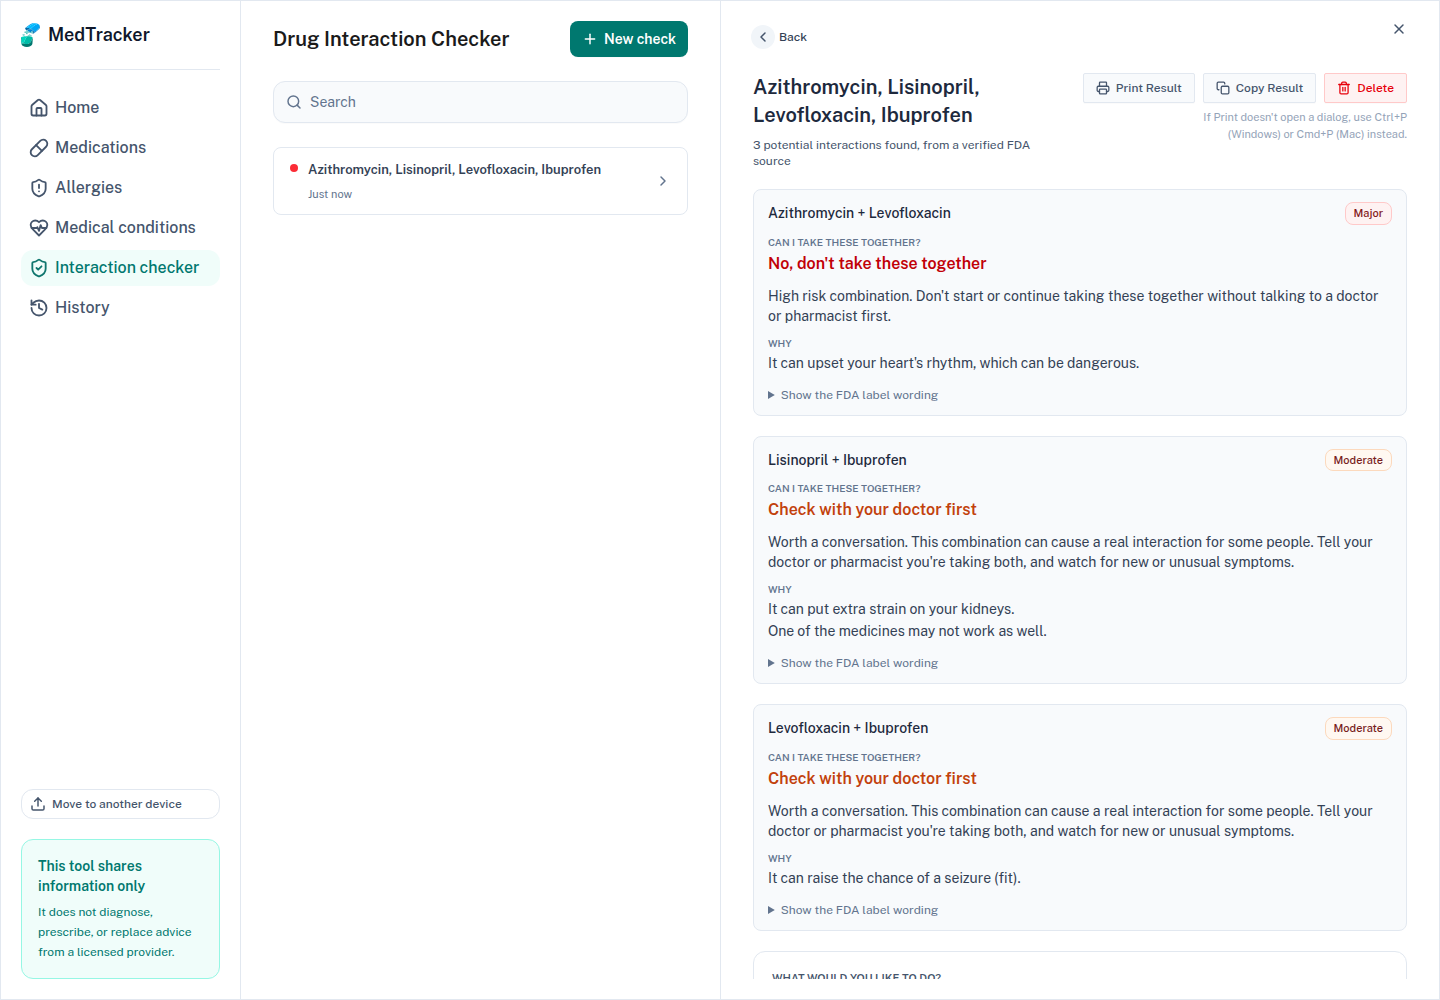
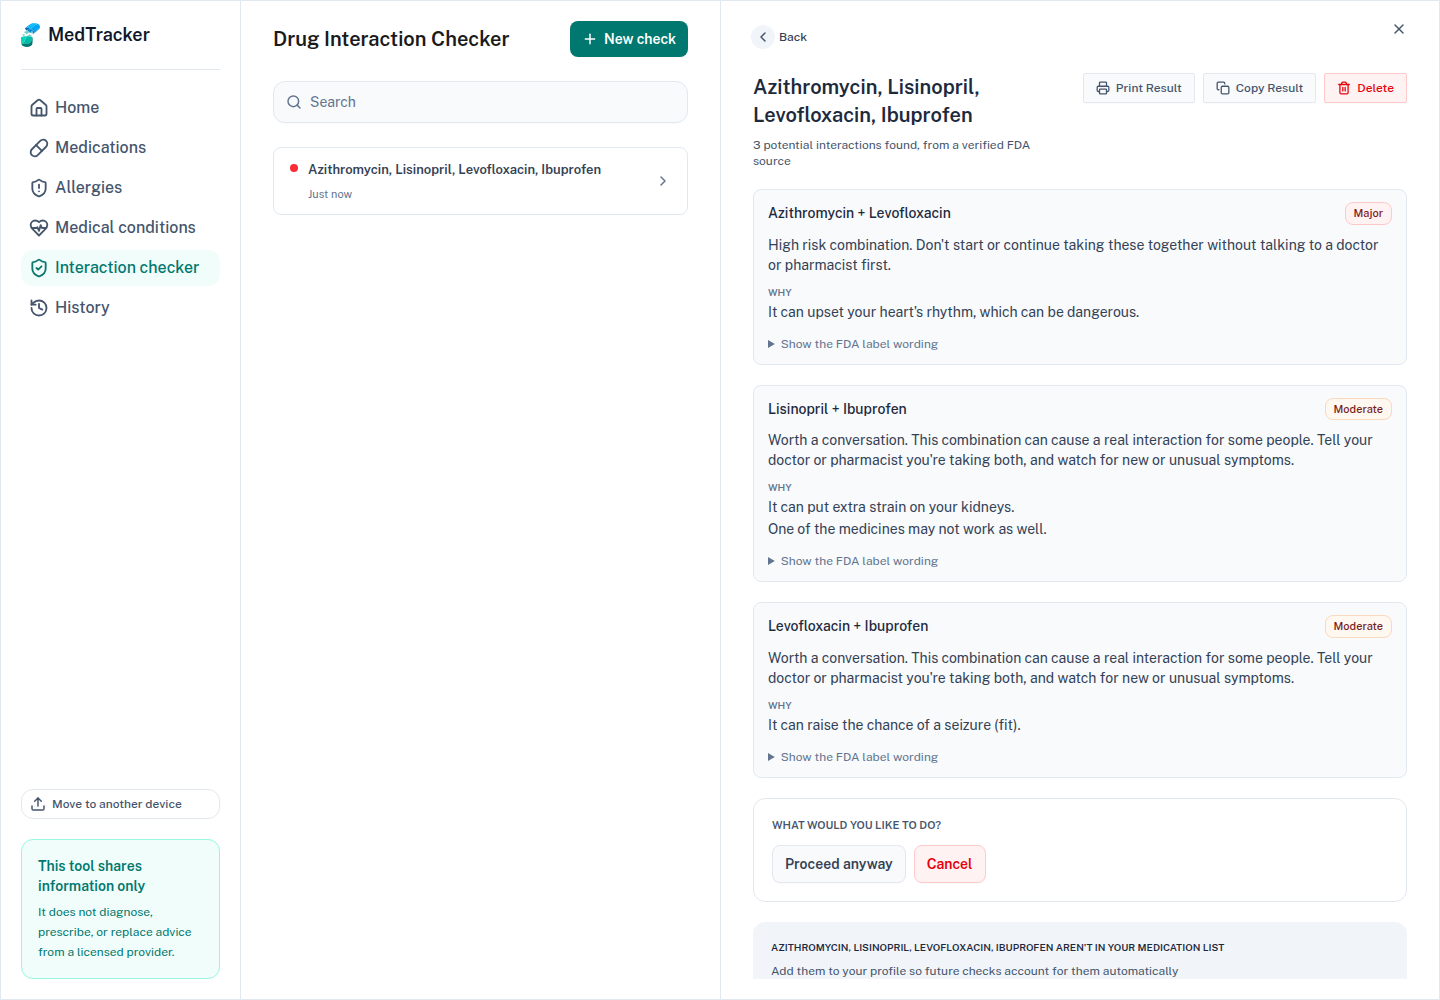
Trim interaction result: drop verdict block, print hint and emergency call
Claude-Session: https://claude.ai/code/session_014apxLj5NemqaRrMDhjeqss

Changed region(s): [[0.5312, 0.217, 0.9688, 0.992], [0.8438, 0.093, 0.9688, 0.155], [0.9062, 0.713, 0.9688, 0.744]]

diff --git a/src/components/ResultPanel.tsx b/src/components/ResultPanel.tsx
@@ -8,28 +8,19 @@ import trashIcon from "../assets/icons/trash-bin.svg";
 import shieldCheckIcon from "../assets/icons/shield-check.svg";
 import ConfirmDeleteModal from "./ConfirmDeleteModal";
 import SeverityBadge, { SEVERITY_GUIDANCE } from "./SeverityBadge";
-import { VERDICT, genericReason, plainEffects } from "../lib/plainLanguage";
-import type { ConflictItem, ResultData, Decision, Severity } from "../types";
+import { genericReason, plainEffects } from "../lib/plainLanguage";
+import type { ConflictItem, ResultData, Decision } from "../types";
 
 export type { ResultData };
 
-// Nigeria's national emergency number, unified across all networks by the
-// NCC. Not a stand-in for a specific provider's number, which the app has no
-// way to know.
-const EMERGENCY_TEL = "112";
+// Nigeria's national emergency number. The call button was removed, but
+// older saved checks can still carry the "contact-provider" decision.
 const EMERGENCY_DISPLAY = "112";
 
 const DECISION_LABEL: Record<Decision, string> = {
   proceed: "You chose to proceed",
   "contact-provider": `Called Emergency Services (${EMERGENCY_DISPLAY})`,
   cancel: "You chose not to add this",
-};
-
-const VERDICT_COLOR: Record<Severity, string> = {
-  major: "text-[#c10007]",
-  moderate: "text-[#c2410c]",
-  minor: "text-[#a16207]",
-  unresolved: "text-slate-700",
 };
 
 /** Plain-language reasons, falling back to reading the label text for checks saved before reasons were stored. */
@@ -43,7 +34,6 @@ function buildCopyText(data: ResultData): string {
   if (data.outcome === "found" && data.conflicts) {
     for (const c of data.conflicts) {
       lines.push(c.pair);
-      lines.push(`Can I take these together? ${VERDICT[c.severity]}.`);
       lines.push(SEVERITY_GUIDANCE[c.severity]);
       lines.push(`Why: ${reasonsFor(c).join(" ")}`);
       lines.push("");
@@ -173,9 +163,6 @@ export default function ResultPanel({
               </button>
             )}
           </div>
-          <p className="max-w-[220px] text-right text-[11px] text-slate-400">
-            If Print doesn't open a dialog, use Ctrl+P (Windows) or Cmd+P (Mac) instead.
-          </p>
           {copyState === "failed" && (
             <p className="max-w-[220px] text-right text-[11px] text-[#e7000b]">
               Couldn't copy automatically. Select the result text and copy it manually.
@@ -203,12 +190,6 @@ export default function ResultPanel({
                 <div className="flex w-full items-center gap-2">
                   <p className="flex-1 text-sm font-medium text-slate-800">{c.pair}</p>
                   <SeverityBadge severity={c.severity} />
-                </div>
-                <div className="flex flex-col gap-0.5">
-                  <p className="text-[10px] font-semibold uppercase text-slate-500">
-                    Can I take these together?
-                  </p>
-                  <p className={`text-base font-bold ${VERDICT_COLOR[c.severity]}`}>{VERDICT[c.severity]}</p>
                 </div>
                 <p className="text-sm leading-5 text-slate-700">{SEVERITY_GUIDANCE[c.severity]}</p>
                 <div className="flex flex-col gap-0.5">
@@ -281,15 +262,6 @@ export default function ResultPanel({
                   >
                     <span className="text-sm font-semibold text-slate-700">Proceed anyway</span>
                   </button>
-                  <a
-                    href={`tel:${EMERGENCY_TEL}`}
-                    onClick={() => onDecide?.("contact-provider")}
-                    className="flex items-center gap-1.5 rounded-lg bg-teal-700 px-3 py-2 shadow-xs"
-                  >
-                    <span className="text-sm font-semibold text-white">
-                      Call Emergency Services ({EMERGENCY_DISPLAY})
-                    </span>
-                  </a>
                   <button
                     type="button"
                     onClick={() => onDecide?.("cancel")}
@@ -298,10 +270,6 @@ export default function ResultPanel({
                     <span className="text-sm font-semibold text-[#e7000b]">Cancel</span>
                   </button>
                 </div>
-                <p className="text-[11px] text-slate-500">
-                  112 is Nigeria's national emergency number, for urgent medical situations. It is
-                  not your personal doctor's office.
-                </p>
               </div>
             )}
           </div>

diff --git a/src/lib/plainLanguage.ts b/src/lib/plainLanguage.ts
@@ -1,5 +1,3 @@
-import type { Severity } from "../types";
-
 // FDA label wording mapped to what it means for the person taking the
 // medicines, in everyday words. Ordered roughly by how serious the effect is,
 // so the most important reason is shown first.
@@ -88,10 +86,3 @@ export function genericReason(pair: string): string {
     : "The official drug label warns about taking these together.";
 }
 
-/** The short answer to "Can I take these together?". */
-export const VERDICT: Record<Severity, string> = {
-  major: "No, don't take these together",
-  moderate: "Check with your doctor first",
-  minor: "Usually OK to take together",
-  unresolved: "Not sure yet",
-};
